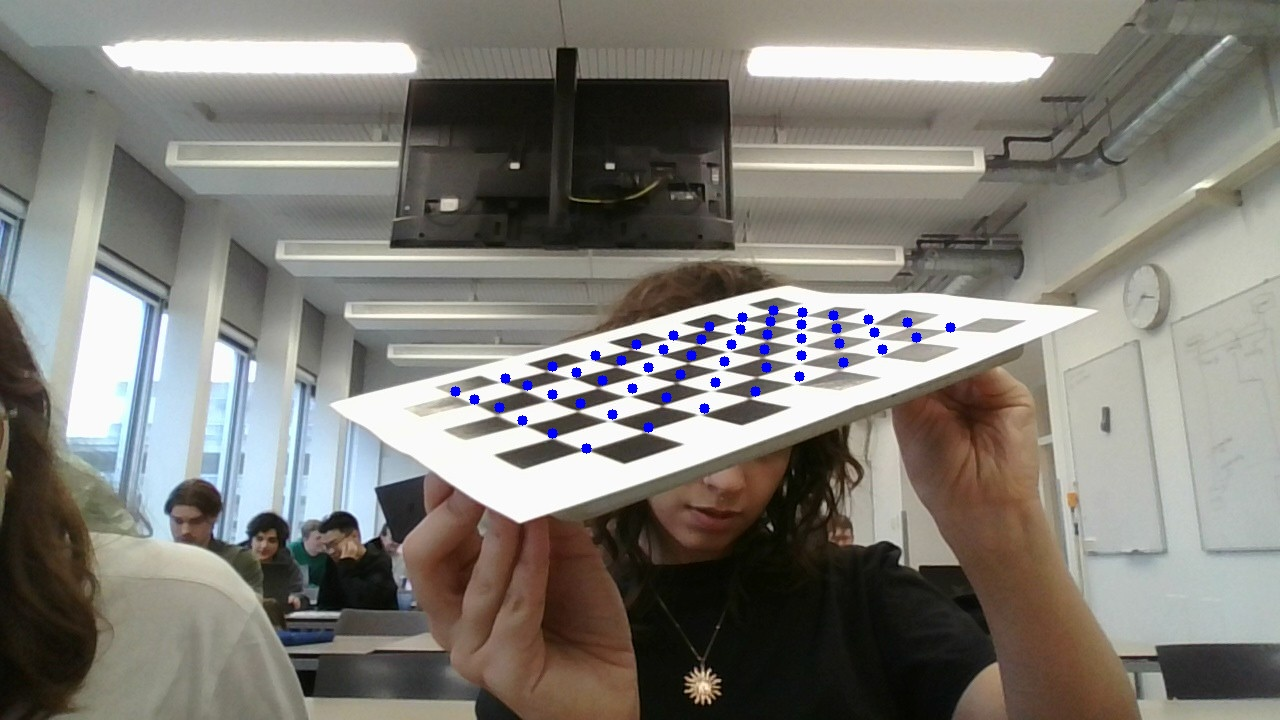
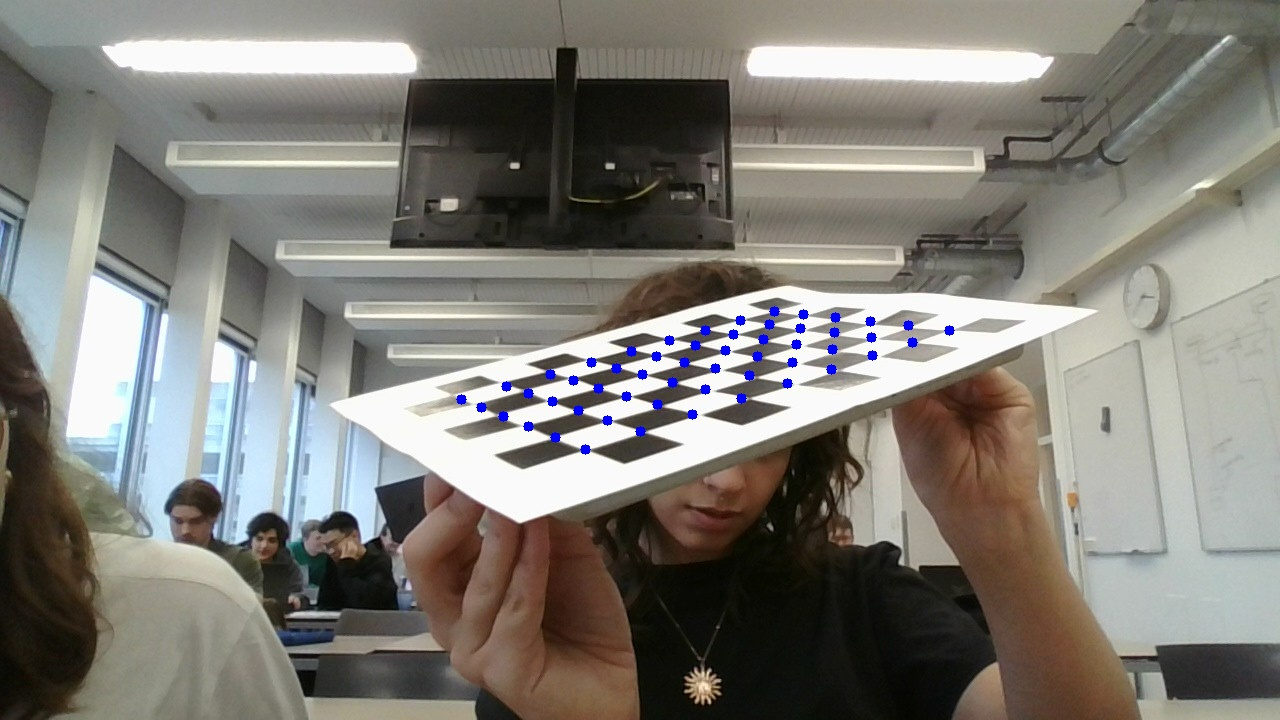
big fixes

Changed region(s): [[0.3438, 0.4278, 0.7188, 0.6111]]

diff --git a/Assignment1.py b/Assignment1.py
@@ -8,14 +8,14 @@ import matplotlib.pyplot as plt
 save_id = 1
 EDGE_SIZE = 25 # size of the square edge (in mm)
 L = 75  # length of axes in mm
-axis = np.float32([
+AXES = np.float32([
     [0, 0, 0],   # origin
-    [L, 0, 0],   # X
-    [0, L, 0],   # Y
-    [0, 0, -L]   # Z 
+    [L*2, 0, 0],   # X
+    [0, L*2, 0],   # Y
+    [0, 0, -L*2]   # Z 
 ])
 
-cube = np.float32([
+CUBE = np.float32([
     [0,0,0],       # bottom-front-left
     [L,0,0],       # bottom-front-right
     [L,L,0],       # bottom-back-right
@@ -96,6 +96,54 @@ def interpolate_corners(points, cols, rows):
     img_grid = cv.perspectiveTransform(all_points.reshape(cols*rows, 1, 2), H)
     return img_grid
 
+def signed_area(p):
+    x, y = p[:, 0], p[:, 1]
+    return 0.5 * np.sum(x * np.roll(y, -1) - y * np.roll(x, -1))
+
+def order_points(src, pattern_size):
+    src = np.asarray(src, np.float32)
+    cx = np.mean(src[:,0])
+    cy = np.mean(src[:,1])
+    angles = np.arctan2(src[:, 1] - cy, src[:, 0] - cx)
+    order = np.argsort(angles)
+    pts = src[order]
+
+    if signed_area(pts) > 0:
+        pts = pts[::-1]
+
+    best_i = None
+    best_y = 1e10
+    for i in range(4):
+        p = pts[i]
+        q = pts[(i+1) % 4]
+        y_avg = 0.5 * (p[1] + q[1])
+        if y_avg < best_y:
+            best_y = y_avg
+            best_i = i
+    p_top0 = pts[best_i]
+    p_top1 = pts[(best_i + 1) % 4]
+
+    if p_top0[0] < p_top1[0]:
+        top_left, top_right = p_top0, p_top1
+        bottom_right = pts[(best_i + 2) % 4]
+        bottom_left = pts[(best_i + 3) % 4]
+    else:
+        top_left, top_right = p_top1, p_top0
+        bottom_right = pts[(best_i + 3) % 4]
+        bottom_left = pts[(best_i + 2) % 4]
+    
+    ordered_points = np.array([top_left, top_right, bottom_right, bottom_left], np.float32)
+
+    expected = (pattern_size[0] - 1) / (pattern_size[1] - 1)
+
+    len_x = np.linalg.norm(ordered_points[1] - ordered_points[0])  # TR-TL
+    len_y = np.linalg.norm(ordered_points[3] - ordered_points[0])  # BL-TL
+    observed = len_x / (len_y + 1e-9)
+    if observed < 1.0 and expected > 1.0:
+        ordered_points = np.array([ordered_points[0], ordered_points[3], ordered_points[2], ordered_points[1]], np.float32)
+    return ordered_points
+
+
 def create_object_points(cols, rows, square_size_mm = EDGE_SIZE):
     """
     Create the 3D world coordinates of the chessboard corners.
@@ -157,14 +205,14 @@ def color_face(img, face, color, dist_m, alpha = 0.5):
 def dynamic_color(img, face, dmin, dmax, rvec, tvec):
     """
     Function to dynamically assing color to the considered face of a convex polygon based 
-    on the distance from the camera.
-    param: img: 
-    param: face:
-    param dist:
-    param dmin:
-    param dmax: 
-    param angle:
-    returns: 
+    on the distance from the camera and the orientation.
+    param: img: np.ndarray, input BGR image
+    param: face: np.ndarray, Array of 2D image pixel coordinates defining the polygon face to color
+    param dmin: float, representing the minimum distance (in meters) used for normalization/clipping for brightness
+    param dmax: float, representing the maximum distance (in meters) used for normalization/clipping for brightness
+    param rvec: np.ndarray, rotation vector
+    param tvec: np.ndarray, translation vector
+    returns: np.ndarray output BGR image
     """
 
     # Calculate the center and transform it to camera coordinates
@@ -194,7 +242,7 @@ def dynamic_color(img, face, dmin, dmax, rvec, tvec):
     #Assign the color automatically
     return color_face(img, face, bgr_color, dist_m)
 
-def draw_cube(img, cameraMatrix, distCoeffs, pattern_size, criteria,rvec=None, tvec=None, online=False):
+def draw_cube(img, cameraMatrix, distCoeffs, pattern_size ,rvec=None, tvec=None, online=False):
     
     """
     Calibrates the camera for the given points and draws the 3D cube a the world origin
@@ -202,9 +250,7 @@ def draw_cube(img, cameraMatrix, distCoeffs, pattern_size, criteria,rvec=None, t
     param: objectPoints_run: 3d points from the calibration run
     param: imagePoints_run: 2d points from the calibration run
     param: img: the test image
-    param: image_size: tuple containing size of the image we are considering
-    param: criteria: ????
-    param: flags: ????
+    param: pattern_size: tuple containing size of the image we are considering
     return: cameraMatrix: 3x3 calibration matrix
     return: distCoeffs: np array representing coefficient correcting lens distortion
     return: rvecs: 3x1 rotation vector representing the position of the object relative to the camera
@@ -218,56 +264,60 @@ def draw_cube(img, cameraMatrix, distCoeffs, pattern_size, criteria,rvec=None, t
         ret, corners = cv.findChessboardCorners(gray, pattern_size)
         if not ret:
             return img
-        objp = create_object_points(9,6,EDGE_SIZE)
+        objp = create_object_points(pattern_size[0],pattern_size[1],EDGE_SIZE)
         _, rvec, tvec = cv.solvePnP(objp, corners, cameraMatrix, distCoeffs)
     
     gray = cv.cvtColor(img, cv.COLOR_BGR2GRAY)
 
     # Find the chess board corners for the test image
     ret, corners = cv.findChessboardCorners(gray, (pattern_size[0],pattern_size[1]), None)
-    board_object_points = create_object_points(9, 6, EDGE_SIZE)
+    board_object_points = create_object_points(pattern_size[0], pattern_size[1], EDGE_SIZE)
 
-    #Estimate for test image tvec and rvec
-    _, rvec, tvec = cv.solvePnP(board_object_points, corners, cameraMatrix, distCoeffs)
+    if ret:
+        #Estimate for test image tvec and rvec
+        _, rvec, tvec = cv.solvePnP(board_object_points, corners, cameraMatrix, distCoeffs)
 
-    # Project 3D axes to 2D image
-    imgpts, _ = cv.projectPoints(cube, rvec, tvec, cameraMatrix, distCoeffs)
-    pts = imgpts.reshape(-1,2).astype(int)
-    
-    origin_pt = tuple(pts[0]) #TODO: ???
-    dist = float(np.linalg.norm(tvec))
-    
-    #Color top face
-    top_face = np.array([pts[4], pts[5], pts[6], pts[7]], dtype=np.int32)
-    img = dynamic_color(img, top_face, dmin=0.0, dmax=4.0, rvec=rvec, tvec=tvec)
+        # Project 3D axes to 2D image
+        imgpts, _ = cv.projectPoints(CUBE, rvec, tvec, cameraMatrix, distCoeffs)
+        ax, _ = cv.projectPoints(AXES, rvec, tvec, cameraMatrix, distCoeffs)
+        pts = imgpts.reshape(-1,2).astype(int)
+        axpts = ax.reshape(-1,2).astype(int)
 
-    # Draw cube
-    cv.line(img, tuple(pts[0]), tuple(pts[1]), (0,0,255), 2)
-    cv.line(img, tuple(pts[1]), tuple(pts[2]), (0,0,255), 2)
-    cv.line(img, tuple(pts[2]), tuple(pts[3]), (0,0,255), 2)
-    cv.line(img, tuple(pts[3]), tuple(pts[0]), (0,0,255), 2)
-    cv.line(img, tuple(pts[4]), tuple(pts[5]), (0,255,0), 2)
-    cv.line(img, tuple(pts[5]), tuple(pts[6]), (0,255,0), 2)
-    cv.line(img, tuple(pts[6]), tuple(pts[7]), (0,255,0), 2)
-    cv.line(img, tuple(pts[7]), tuple(pts[4]), (0,255,0), 2)
-    for i in range(4):
-        cv.line(img, tuple(pts[i]), tuple(pts[i+4]), (255,0,0), 2)
+        #Color top face
+        top_face = np.array([pts[4], pts[5], pts[6], pts[7]], dtype=np.int32)
+        img = dynamic_color(img, top_face, dmin=0.0, dmax=4.0, rvec=rvec, tvec=tvec)
 
-    if online!= True:
-        # Display image
-        global save_id
-        cv.imshow("Cube overlay", img)
-        cv.imwrite(f"./cube_runs/cube_overlay{save_id}.png", img)
-        save_id += 1
+        # Draw axes
+        cv.arrowedLine(img, tuple(axpts[0]), tuple(axpts[1]), (255, 0, 0), 2)
+        cv.arrowedLine(img, tuple(axpts[0]), tuple(axpts[2]), (0, 255, 0), 2)
+        cv.arrowedLine(img, tuple(axpts[0]), tuple(axpts[3]), (0, 0, 255), 2)
 
+        # Draw cube
+        cv.line(img, tuple(pts[0]), tuple(pts[1]), (0,0,0), 2)
+        cv.line(img, tuple(pts[1]), tuple(pts[2]), (0,0,0), 2)
+        cv.line(img, tuple(pts[2]), tuple(pts[3]), (0,0,0), 2)
+        cv.line(img, tuple(pts[3]), tuple(pts[0]), (0,0,0), 2)
+        cv.line(img, tuple(pts[4]), tuple(pts[5]), (0,0,0), 2)
+        cv.line(img, tuple(pts[5]), tuple(pts[6]), (0,0,0), 2)
+        cv.line(img, tuple(pts[6]), tuple(pts[7]), (0,0,0), 2)
+        cv.line(img, tuple(pts[7]), tuple(pts[4]), (0,0,0), 2)
+        for i in range(4):
+            cv.line(img, tuple(pts[i]), tuple(pts[i+4]), (0,0,0), 2)
 
+        if online!= True:
+            # Display image
+            global save_id
+            cv.imshow("Cube overlay", img)
+            cv.imwrite(f"./cube_runs/cube_overlay{save_id}.png", img)
+            save_id += 1
 
-        key = cv.waitKey(0)
-        if key == 27:
-            cv.destroyAllWindows()
+            key = cv.waitKey(0)
+            if key == 27:
+                cv.destroyAllWindows()
 
-    else:
-        return img
+        else:
+            return img
+    return img
 
 # directories for the training images
 images = glob.glob('./Images/*.jpg')
@@ -287,7 +337,7 @@ manual_imagePoints = []
 # objp = np.zeros((pattern_size[1]*pattern_size[0],3), np.float32)
 # objp[:,:2] = np.mgrid[0:pattern_size[0],0:pattern_size[1]].T.reshape(-1,2)
 # objp[:,:2] *= EDGE_SIZE 
-objp = create_object_points(9,6,EDGE_SIZE)
+objp = create_object_points(pattern_size[0], pattern_size[1],EDGE_SIZE)
 
 
 for fname in images[:25]:
@@ -344,22 +394,65 @@ for fname in manual_images:
         print("Skipped image: ", fname)
         continue
 
-    src = np.array(state['2dpoints'], dtype=np.float32)
-    W, H = 900, 600
-    dst = np.float32([[0, 0], [W-1, 0], [W-1, H-1], [0, H-1]]) # the corners
-
     # warping for better corner estimation
-    H_warp = cv.getPerspectiveTransform(src, dst)
+    if len(state['2dpoints']) != 4:
+        print(f'This image was skipped : {fname}. Please select at least 4 points in the next one.')
+        continue
+
+    src = np.array(state['2dpoints'], dtype=np.float32)
+
+    # --------------- Enforce order -----------------
+
+    # # Find top-left and bottom-right
+    # sum_coord = src[:,0] + src[:,1]
+    # new_top_left = src[np.argmin(sum_coord)]
+    # new_bottom_right = src[np.argmax(sum_coord)]
+
+    # # Find bottom-left and top-right
+    # diff_coord = src[:,0] - src[:,1]
+    # new_bottom_left = src[np.argmax(diff_coord)]
+    # new_top_right = src[np.argmin(diff_coord)]
+
+    # cx = np.mean(src[:,0])
+    # cy = np.mean(src[:,1])
+    # angles = np.arctan2(src[:, 1] - cy, src[:, 0] - cx)
+    # order = np.argsort(angles)
+    # pts = src[order]
+    
+    # sums = pts[:,0] + pts[:,1]
+    # start = np.argmin(sums)
+    # pts = np.roll(pts, -start, axis=0)
+
+    # if signed_area(pts) > 0:
+    #     pts = np.array([pts[0], pts[3], pts[2], pts[1]], dtype=np.float32)
+
+    src = np.array(state['2dpoints'], dtype = np.float32)
+    ordered = order_points(src, pattern_size = pattern_size)
+    
+    ordered_ref = ordered.reshape(-1, 1, 2).astype(np.float32)
+    cv.cornerSubPix(gray, ordered_ref, (11,11), (-1,-1), criteria)
+    ordered_refined = ordered_ref.reshape(4, 2)
+
+    #dst = np.float32([[0, 0], [W-1, 0], [W-1, H-1], [0, H-1]]) # the corners
+    dst = np.float32([
+        top_left,
+        top_right,
+        bottom_right,
+        bottom_left
+    ])
+    W = (pattern_size[0] - 1) * 100
+    H = (pattern_size[1] - 1) * 100
+    
+    H_warp = cv.getPerspectiveTransform(ordered_refined, dst)
     warped = cv.warpPerspective(img, H_warp, (W, H))
     gray_warped = cv.cvtColor(warped, cv.COLOR_BGR2GRAY)
 
     # interpolation
     warped_grid = interpolate_corners(dst, pattern_size[0], pattern_size[1])
     warped_grid = warped_grid.reshape(-1, 1, 2).astype(np.float32)
-    cv.cornerSubPix(gray_warped, warped_grid, (11,11), (-1,-1), criteria)
 
     # inverse warping to go back to original image
-    H_inv = cv.getPerspectiveTransform(dst, src)
+    H_inv = cv.getPerspectiveTransform(dst, ordered_refined)
     img_grid = cv.perspectiveTransform(warped_grid, H_inv)
 
     img_points = img_grid.reshape(-1, 2)
@@ -450,13 +543,13 @@ img = cv.imread(img_path)
 
 
 # Run 1
-draw_cube(img.copy(), cameraMatrix1, distCoeffs1, pattern_size=pattern_size, criteria=criteria, online=False)
+draw_cube(img.copy(), cameraMatrix1, distCoeffs1, pattern_size=pattern_size, online=False)
 
 # Run 2
-draw_cube(img.copy(), cameraMatrix2, distCoeffs2, pattern_size=pattern_size, criteria=criteria, online=False)
+draw_cube(img.copy(), cameraMatrix2, distCoeffs2, pattern_size=pattern_size, online=False)
 
 # Run 3
-draw_cube(img.copy(), cameraMatrix3, distCoeffs3, pattern_size=pattern_size, criteria=criteria, online=False)
+draw_cube(img.copy(), cameraMatrix3, distCoeffs3, pattern_size=pattern_size, online=False)
 
 
 """
@@ -487,7 +580,6 @@ while True:
             rvec=None,      
             tvec=None,
             pattern_size=pattern_size,
-            criteria=criteria,
             online=True
         )
 

diff --git a/tempCodeRunnerFile.py b/tempCodeRunnerFile.py
@@ -1,0 +1,3 @@
+def signed_area(p):
+    x, y = p[:, 0], p[:, 1]
+    return 0.5 * np.sum(x * np.roll(y, -1) - y * np.roll(x, -1))
